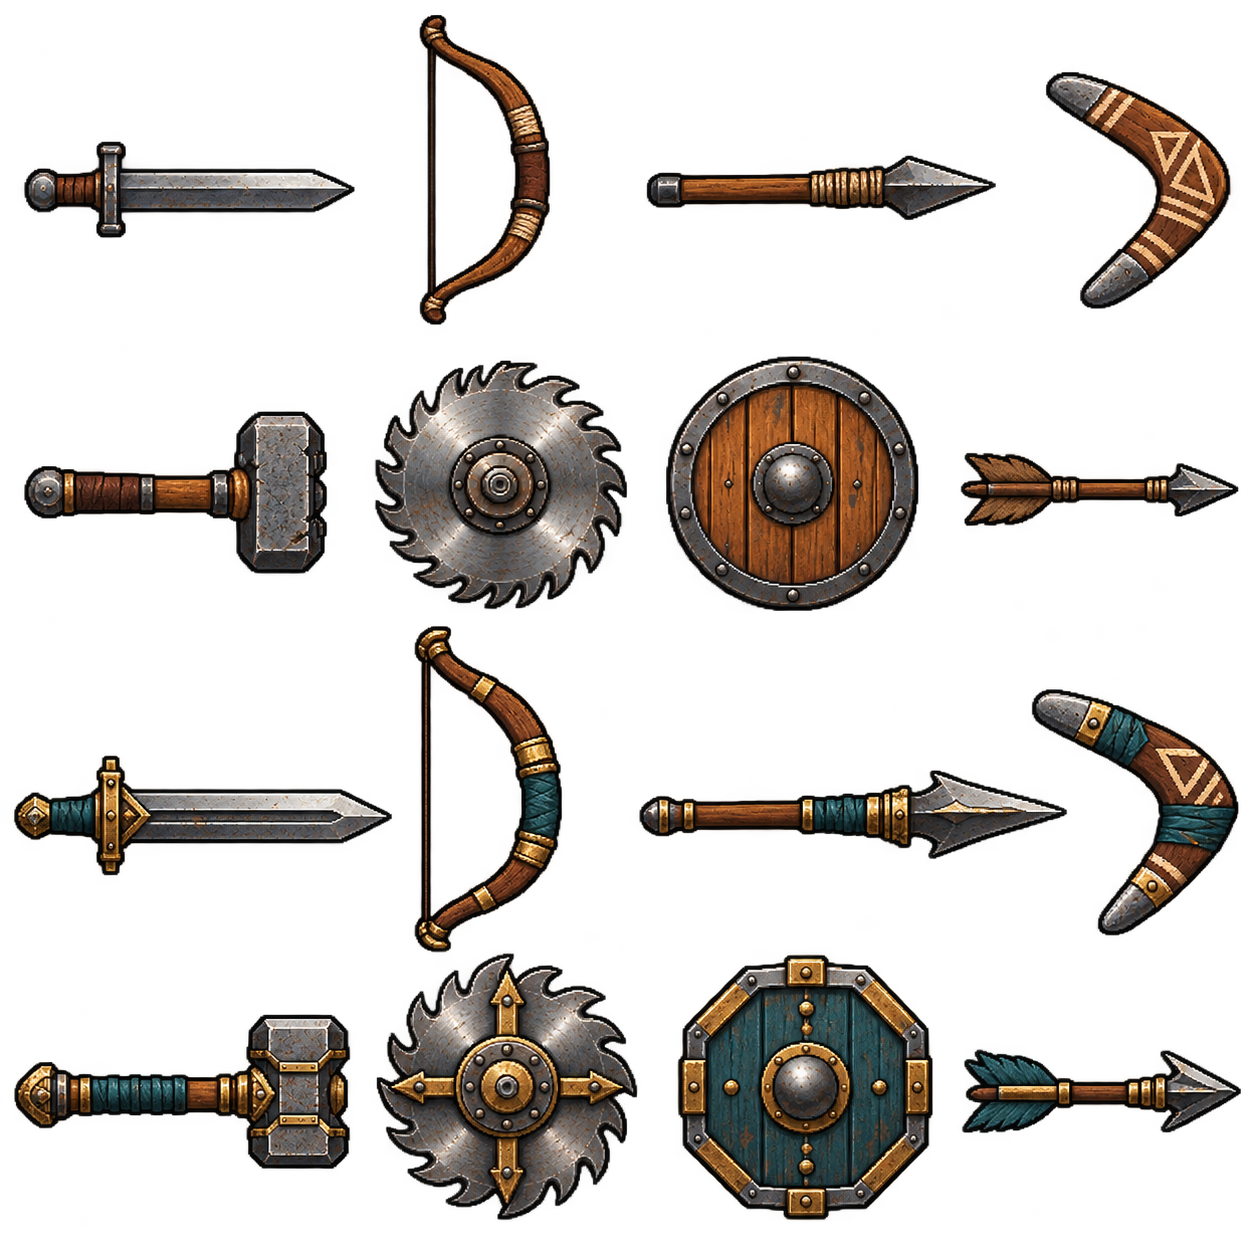
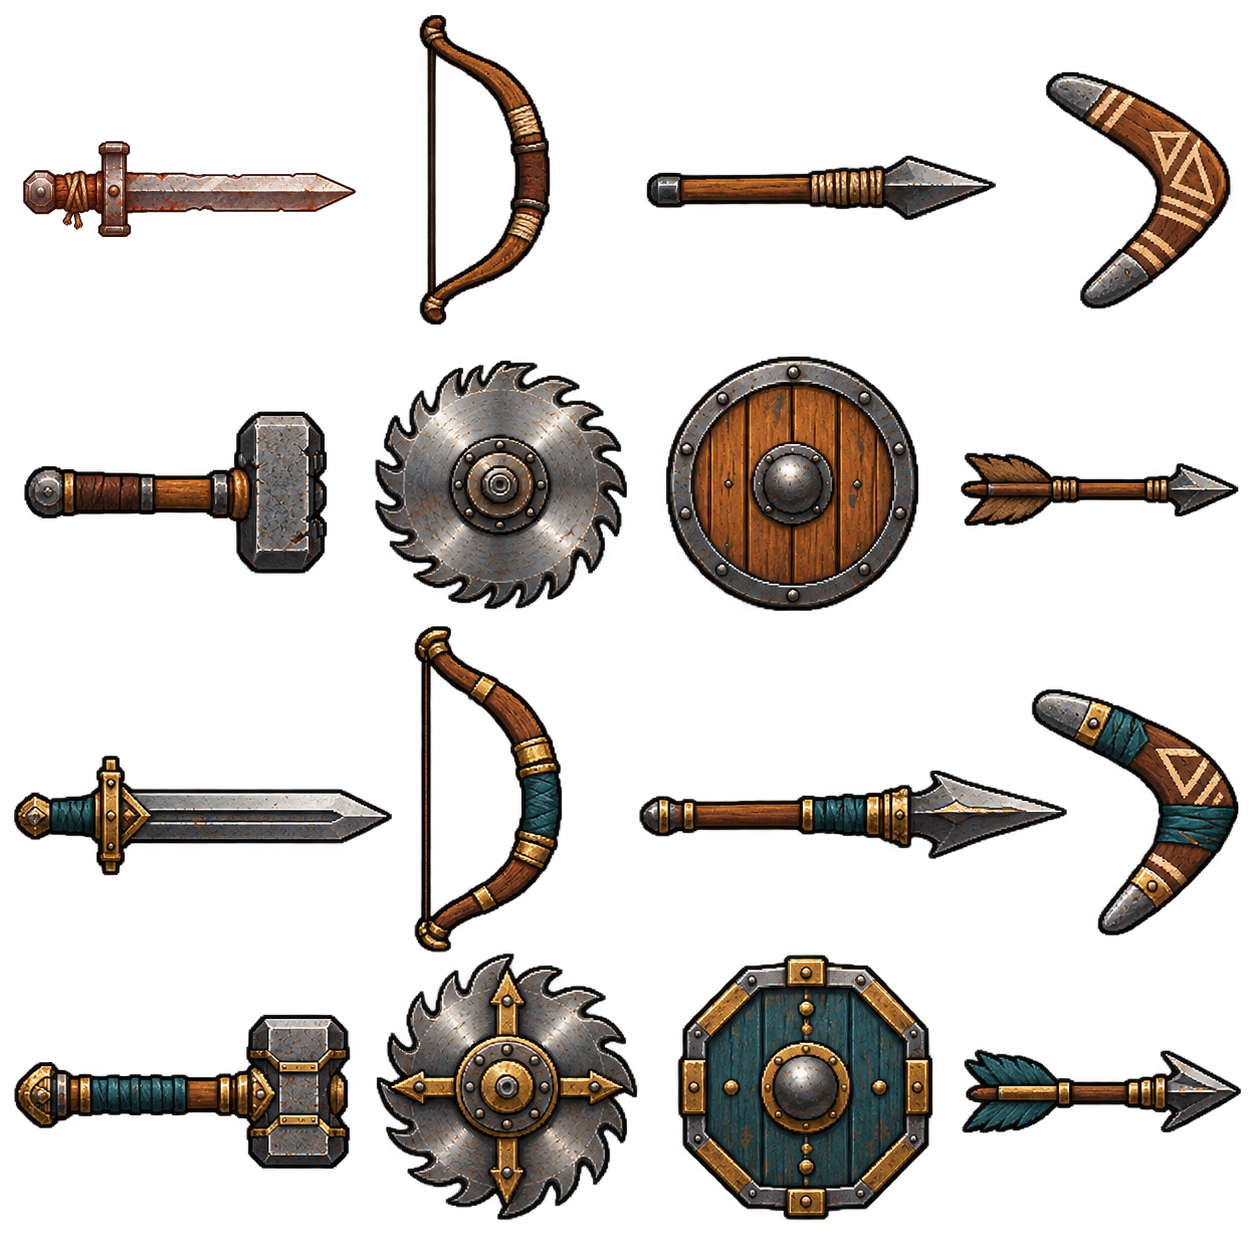
Espada improvisada com a arte nova; espadas de ferro, ouro e metal negro guardadas
A improvisada entra no quadro "sword" do atlas de armas (ícone, golpe e masmorras). As outras
três ficam em public/assets/visual/items/swords/ para quando a espada ganhar níveis.
scripts/import_swords.py refaz tudo a partir de docs/arte-recebida/espadas/.

Claude-Session: https://claude.ai/code/session_01VpVxgMQDGaCXuwQcLEJaM9

Changed region(s): [[0.0, 0.0933, 0.2799, 0.1866]]

diff --git a/scripts/import_swords.py b/scripts/import_swords.py
@@ -1,0 +1,42 @@
+"""Espadas dos 4 níveis (arte do Junior, preview.41).
+
+Uso: python3 -I scripts/import_swords.py
+- Recorta cada espada de docs/arte-recebida/espadas/sprites_png_transparente/ e grava em
+  public/assets/visual/items/swords/<nível>.png (improvisada, ferro, ouro, metal-negro).
+- Coloca a improvisada no quadro "sword" do atlas de armas (weapons-remake.png), que o jogo
+  usa no ícone do inventário, na espada do golpe e nas masmorras. O quadro mantém o tamanho
+  (333 × 99); a espada é reduzida mantendo a proporção e centralizada nele."""
+import json
+from pathlib import Path
+from PIL import Image
+
+ROOT = Path(__file__).resolve().parent.parent
+SRC = ROOT / 'docs/arte-recebida/espadas/sprites_png_transparente'
+OUT = ROOT / 'public/assets/visual/items/swords'
+ATLAS = ROOT / 'public/assets/visual/dungeons/weapons-remake.png'
+FRAMES = ROOT / 'public/assets/visual/dungeons/weapons-remake.json'
+TIERS = {'improvisada': '01_espada_improvisada.png', 'ferro': '02_espada_ferro.png', 'ouro': '03_espada_ouro.png', 'metal-negro': '04_espada_metal_negro.png'}
+
+OUT.mkdir(parents=True, exist_ok=True)
+cut = {}
+for tier, name in TIERS.items():
+    im = Image.open(SRC / name).convert('RGBA')
+    im = im.crop(im.getbbox())
+    im.save(OUT / f'{tier}.png', optimize=True)
+    cut[tier] = im
+    print(tier, im.size)
+
+frame = json.loads(FRAMES.read_text())['frames']['sword']
+atlas = Image.open(ATLAS).convert('RGBA')
+box = (frame['x'], frame['y'], frame['x'] + frame['width'], frame['y'] + frame['height'])
+atlas.paste((0, 0, 0, 0), box)
+sword = cut['improvisada'].copy()
+sword.thumbnail((frame['width'], frame['height']), Image.LANCZOS)
+ox = frame['x'] + (frame['width'] - sword.width) // 2
+oy = frame['y'] + (frame['height'] - sword.height) // 2
+atlas.alpha_composite(sword, (ox, oy))
+atlas.save(ATLAS, optimize=True)
+import hashlib, re
+text = FRAMES.read_text()
+FRAMES.write_text(re.sub(r'"sha256": "[0-9a-f]+"', '"sha256": "' + hashlib.sha256(ATLAS.read_bytes()).hexdigest() + '"', text, count=1))
+print('atlas: espada improvisada em', box, sword.size)
